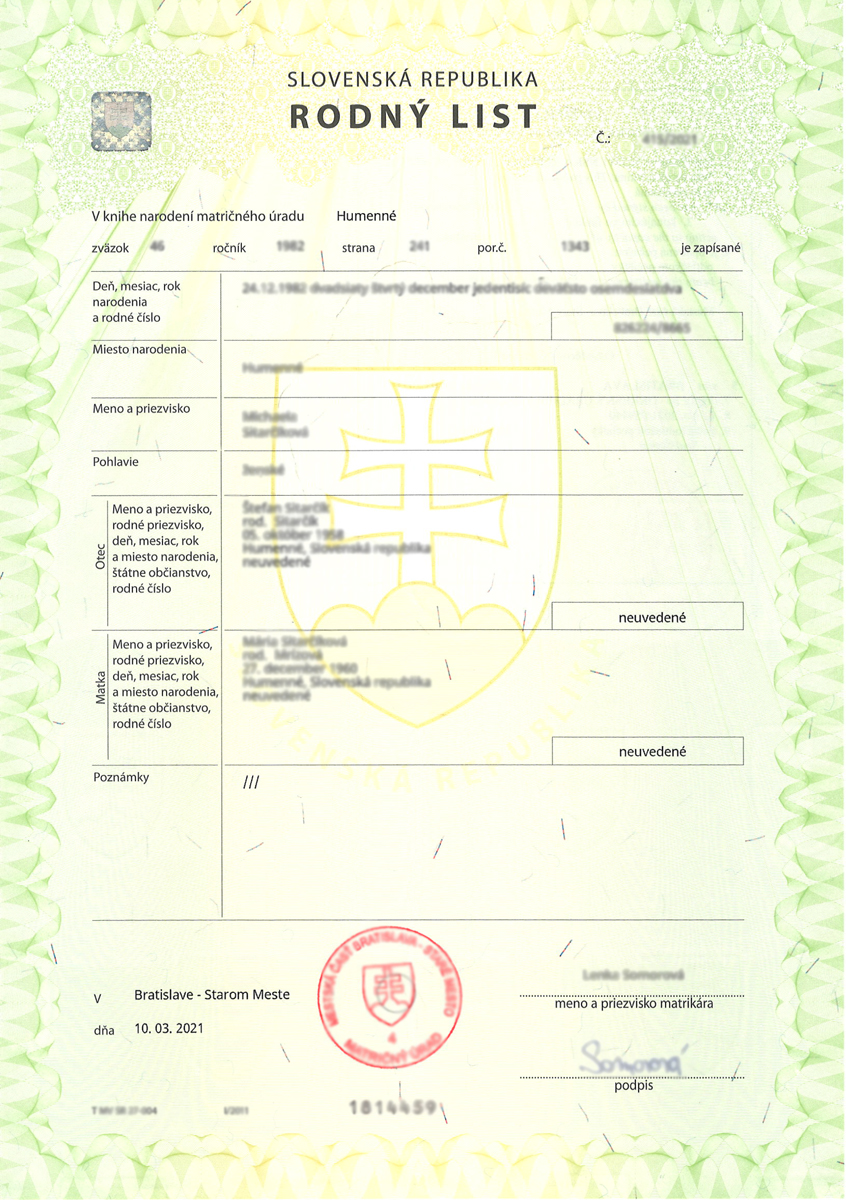
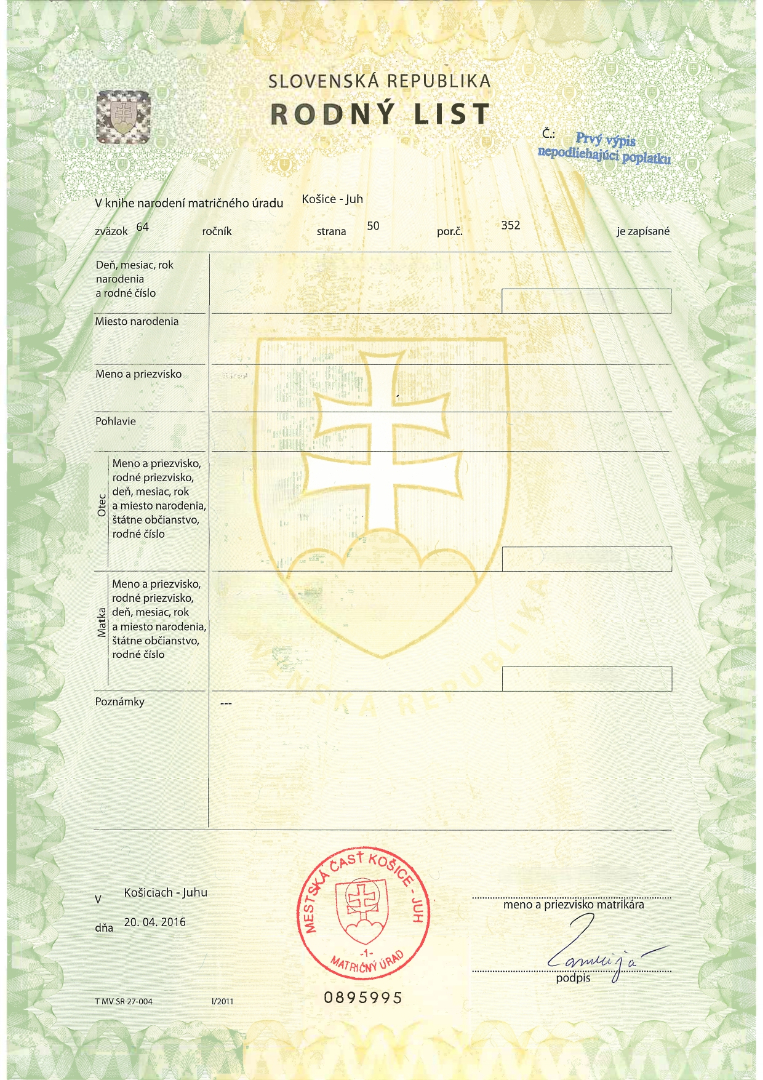
Replace image of birth certificate

diff --git a/src/components/birthCertificateGenerator/Canvas.vue b/src/components/birthCertificateGenerator/Canvas.vue
@@ -1,6 +1,6 @@
 <template>
   <div>
-  <canvas id="canvas" width="846" height="1200" />
+  <canvas id="canvas" width="763" height="1080" />
   </div>
   <div>
     <button class="button" @click="download">Stiahnuť</button>
@@ -36,8 +36,8 @@ const download = () => {
 const draw = () => {
   if (!context.value || !imageLoaded.value) return;
 
-  context.value.clearRect(0, 0, 846, 1200);
-  context.value.drawImage(image.value, 0,0, 846, 1200, 0,0, 846, 1200);
+  context.value.clearRect(0, 0, 763, 1080);
+  context.value.drawImage(image.value, 0,0, 763, 1080, 0,0, 763, 1080);
 
   context.value.font = "400 14px sans-serif";
   if (state.year) {
